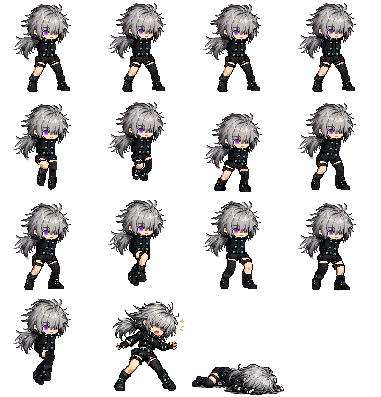
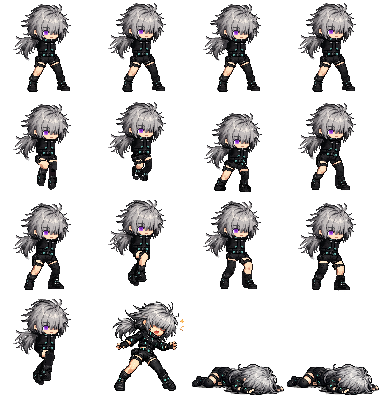
feat: 5스테이지 엔딩 회복 연출 추가
- 3스테이지 플레이어 아틀라스에 3프레임 `alive` 애니메이션 추가
- 포위 적 퇴장 후 플레이어를 천천히 확대하고 회복 애니메이션 재생
- 애니메이션 종료 2초 뒤 `RETURN COMPLETE`를 표시하고 E2E로 검증

Changed region(s): [[0.7507, 0.9068, 1.0, 0.9975]]

diff --git a/client/src/game/systems/StageEndEventDirector.ts b/client/src/game/systems/StageEndEventDirector.ts
@@ -20,6 +20,8 @@ const ASCENSION_FORMATION_HOLD_MS = 2200;
 const ASCENSION_DEPARTURE_MS = 1200;
 /** 지하 엔딩 방에서 플레이어를 강조하는 최종 카메라 배율. */
 const ASCENSION_PLAYER_ZOOM = 1.35;
+/** 포위 잡몹이 모두 떠난 뒤 플레이어를 천천히 확대하는 시간. */
+const ASCENSION_PLAYER_ZOOM_MS = 1400;
 /** 싱킹 연출에 쓰는 검은 선/점 개수. */
 const SINK_STREAK_COUNT = 14;
 const SHATTER_SNAPSHOT_KEY = 'stage-shatter-snapshot';
@@ -64,9 +66,10 @@ export class StageEndEventDirector {
   /**
    * 5스테이지 종료 연출: 화면이 점점 하얘진 뒤, 그 하얀 화면 뒤에서 3스테이지
    * 종료 포위 방으로 복귀(`onEnterRoom`)한다. 3스테이지 포위 장면을 다시
-   * 보여준 뒤 적들이 플레이어 반대편으로 떠나면 클리어 화면으로 넘어간다.
+   * 보여준 뒤 적들이 플레이어 반대편으로 떠나면 카메라 확대 후 회복 연출을
+   * 시작한다.
    */
-  playAscension(onEnterRoom: () => void, onComplete: () => void) {
+  playAscension(onEnterRoom: () => void, onEnemiesDeparted: () => void) {
     // 화면 스케일이 EXPAND라 넓은 화면에서는 카메라 폭이 GAME_WIDTH보다 크다.
     // scrollFactor 0 오버레이는 실제 카메라 크기를 기준으로 배치해야 흰 화면이
     // 넓어진 뷰포트 양옆까지 덮는다.
@@ -89,7 +92,6 @@ export class StageEndEventDirector {
       onComplete: () => {
         // 완전히 하얀 순간 3스테이지 지하 착지 방으로 교체(교체를 흰빛으로 감춤).
         onEnterRoom();
-        camera.setZoom(ASCENSION_PLAYER_ZOOM);
 
         const worldCenterX = this.scene.physics.world.bounds.centerX;
         const enemies = this.spawnUndergroundSiege(worldCenterX, true);
@@ -120,7 +122,15 @@ export class StageEndEventDirector {
                     return;
                   }
 
-                  onComplete();
+                  camera.once(
+                    Phaser.Cameras.Scene2D.Events.ZOOM_COMPLETE,
+                    onEnemiesDeparted,
+                  );
+                  camera.zoomTo(
+                    ASCENSION_PLAYER_ZOOM,
+                    ASCENSION_PLAYER_ZOOM_MS,
+                    'Sine.easeInOut',
+                  );
                   this.scene.tweens.add({
                     targets: white,
                     alpha: 0,

diff --git a/client/e2e/app.spec.ts b/client/e2e/app.spec.ts
@@ -1516,7 +1516,7 @@ test('stage five boss direct jump loads the ascension room floor skin', async ({
     )
     .toEqual({
       cameraCenterOffset: 0,
-      cameraZoom: 1.35,
+      cameraZoom: 1,
       roomId: 'underground-landing',
       siegeTextureKeys: expect.arrayContaining([
         'stage-3-neared',
@@ -1536,15 +1536,20 @@ test('stage five boss direct jump loads the ascension room floor skin', async ({
       () =>
         page.evaluate(() => {
           type RuntimeScene = {
+            cameras: { main: { zoom: number } };
             children: {
               list: Array<{ active: boolean; texture?: { key: string } }>;
             };
             combatUi: { victoryOverlay: { visible: boolean } };
+            player: {
+              anims: { currentAnim?: { frames: unknown[]; key: string } };
+            };
           };
           type DebugGame = { scene: { getScene: (key: string) => unknown } };
           const game = (window as unknown as { __game?: DebugGame }).__game!;
           const scene = game.scene.getScene('game') as RuntimeScene;
           return {
+            cameraZoom: scene.cameras.main.zoom,
             siegeEnemies: scene.children.list.filter(
               ({ active, texture }) =>
                 active &&
@@ -1553,12 +1558,21 @@ test('stage five boss direct jump loads the ascension room floor skin', async ({
                   texture.key,
                 ),
             ).length,
+            playerAnimation: scene.player.anims.currentAnim?.key,
+            playerAnimationFrames:
+              scene.player.anims.currentAnim?.frames.length,
             victoryVisible: scene.combatUi.victoryOverlay.visible,
           };
         }),
-      { timeout: 8_000 },
+      { timeout: 12_000 },
     )
-    .toEqual({ siegeEnemies: 0, victoryVisible: true });
+    .toEqual({
+      cameraZoom: 1.35,
+      playerAnimation: 'stage-3-player-alive',
+      playerAnimationFrames: 3,
+      siegeEnemies: 0,
+      victoryVisible: true,
+    });
 });
 
 test('stage three pipe crawler stays aligned above its floor segment', async ({

diff --git a/client/src/game/scenes/GameScene.ts b/client/src/game/scenes/GameScene.ts
@@ -92,6 +92,7 @@ const UNDERGROUND_LANDING_BACKDROP = {
 };
 const STAGE_THREE_ENDING_FRAME =
   STAGE_THREE_PLAYER_SPRITE.deathFrames?.at(-1) ?? PLAYER_INITIAL_FRAME;
+const ASCENSION_VICTORY_DELAY_MS = 2000;
 
 export class GameScene extends Phaser.Scene {
   private player!: Phaser.Physics.Arcade.Sprite;
@@ -175,6 +176,8 @@ export class GameScene extends Phaser.Scene {
       enterCurrentRoom: () => this.enterCurrentRoom(),
       enterLandingRoom: (mode) => this.enterTransitionLandingRoom(mode),
       setAscensionPose: () => this.showAscensionPlayerPose(),
+      playAscensionAlive: (onComplete) =>
+        this.playAscensionAlive(onComplete),
       completeStageExit: (nextStageIndex) =>
         this.completeStageExit(nextStageIndex),
       finish: (outcome) => {
@@ -620,6 +623,13 @@ export class GameScene extends Phaser.Scene {
       STAGE_THREE_ENDING_FRAME,
     );
     this.playerHalo.setVisible(false);
+  }
+
+  private playAscensionAlive(onComplete: () => void) {
+    this.player.once(Phaser.Animations.Events.ANIMATION_COMPLETE, () =>
+      this.time.delayedCall(ASCENSION_VICTORY_DELAY_MS, onComplete),
+    );
+    this.player.play(STAGE_THREE_PLAYER_SPRITE.animations.alive, true);
   }
 
   private emitStageLocation() {

diff --git a/client/src/game/config/playerAnimationConfig.ts b/client/src/game/config/playerAnimationConfig.ts
@@ -10,6 +10,7 @@ export const PLAYER_ANIMATIONS = {
   flyMove: 'player_fly_move',
   flyDash: 'player_fly_dash',
   death: 'player-death',
+  alive: 'player-alive',
 } as const;
 
 export type PlayerAnimationSet = {
@@ -23,6 +24,7 @@ export type PlayerSpriteConfig = {
   animations: PlayerAnimationSet;
   flyFrames?: readonly string[];
   deathFrames?: readonly string[];
+  aliveFrames?: readonly string[];
 };
 
 export const PLAYER_SPRITE_CONFIG: PlayerSpriteConfig = {
@@ -54,8 +56,10 @@ export const STAGE_THREE_PLAYER_SPRITE: PlayerSpriteConfig = {
     idle: 'stage-3-player-idle',
     run: 'stage-3-player-run',
     death: 'stage-3-player-death',
+    alive: 'stage-3-player-alive',
   },
   deathFrames: [13, 14].map(frameName),
+  aliveFrames: [15, 16, 17].map(frameName),
 };
 
 export const STAGE_FOUR_PLAYER_SPRITE: PlayerSpriteConfig = {

diff --git a/client/src/game/systems/StageTransitionDirector.ts b/client/src/game/systems/StageTransitionDirector.ts
@@ -22,6 +22,7 @@ type StageTransitionDirectorOptions = {
   enterCurrentRoom: () => void;
   enterLandingRoom: (mode: 'descent' | 'ascension') => void;
   setAscensionPose: () => void;
+  playAscensionAlive: (onComplete: () => void) => void;
   completeStageExit: (nextStageIndex: number | null) => void;
   finish: (outcome: 'victory' | 'stage-end') => void;
   idleAnimation: () => string;
@@ -113,7 +114,10 @@ export class StageTransitionDirector {
           this.placePlayer(FLOOR_SURFACE_Y - 40);
           this.options.setAscensionPose();
         },
-        () => this.options.finish('victory'),
+        () =>
+          this.options.playAscensionAlive(() =>
+            this.options.finish('victory'),
+          ),
       );
     });
   }

diff --git a/client/src/game/scenes/BootScene.ts b/client/src/game/scenes/BootScene.ts
@@ -424,6 +424,16 @@ export class BootScene extends Phaser.Scene {
           duration: 400,
         });
       }
+      if (sprite.aliveFrames) {
+        this.anims.create({
+          key: sprite.animations.alive,
+          frames: sprite.aliveFrames.map((frame) => ({
+            key: sprite.texture,
+            frame,
+          })),
+          duration: 1200,
+        });
+      }
     }
     this.anims.create({
       key: STAGE_FIVE_PLAYER_HALO.animation,
